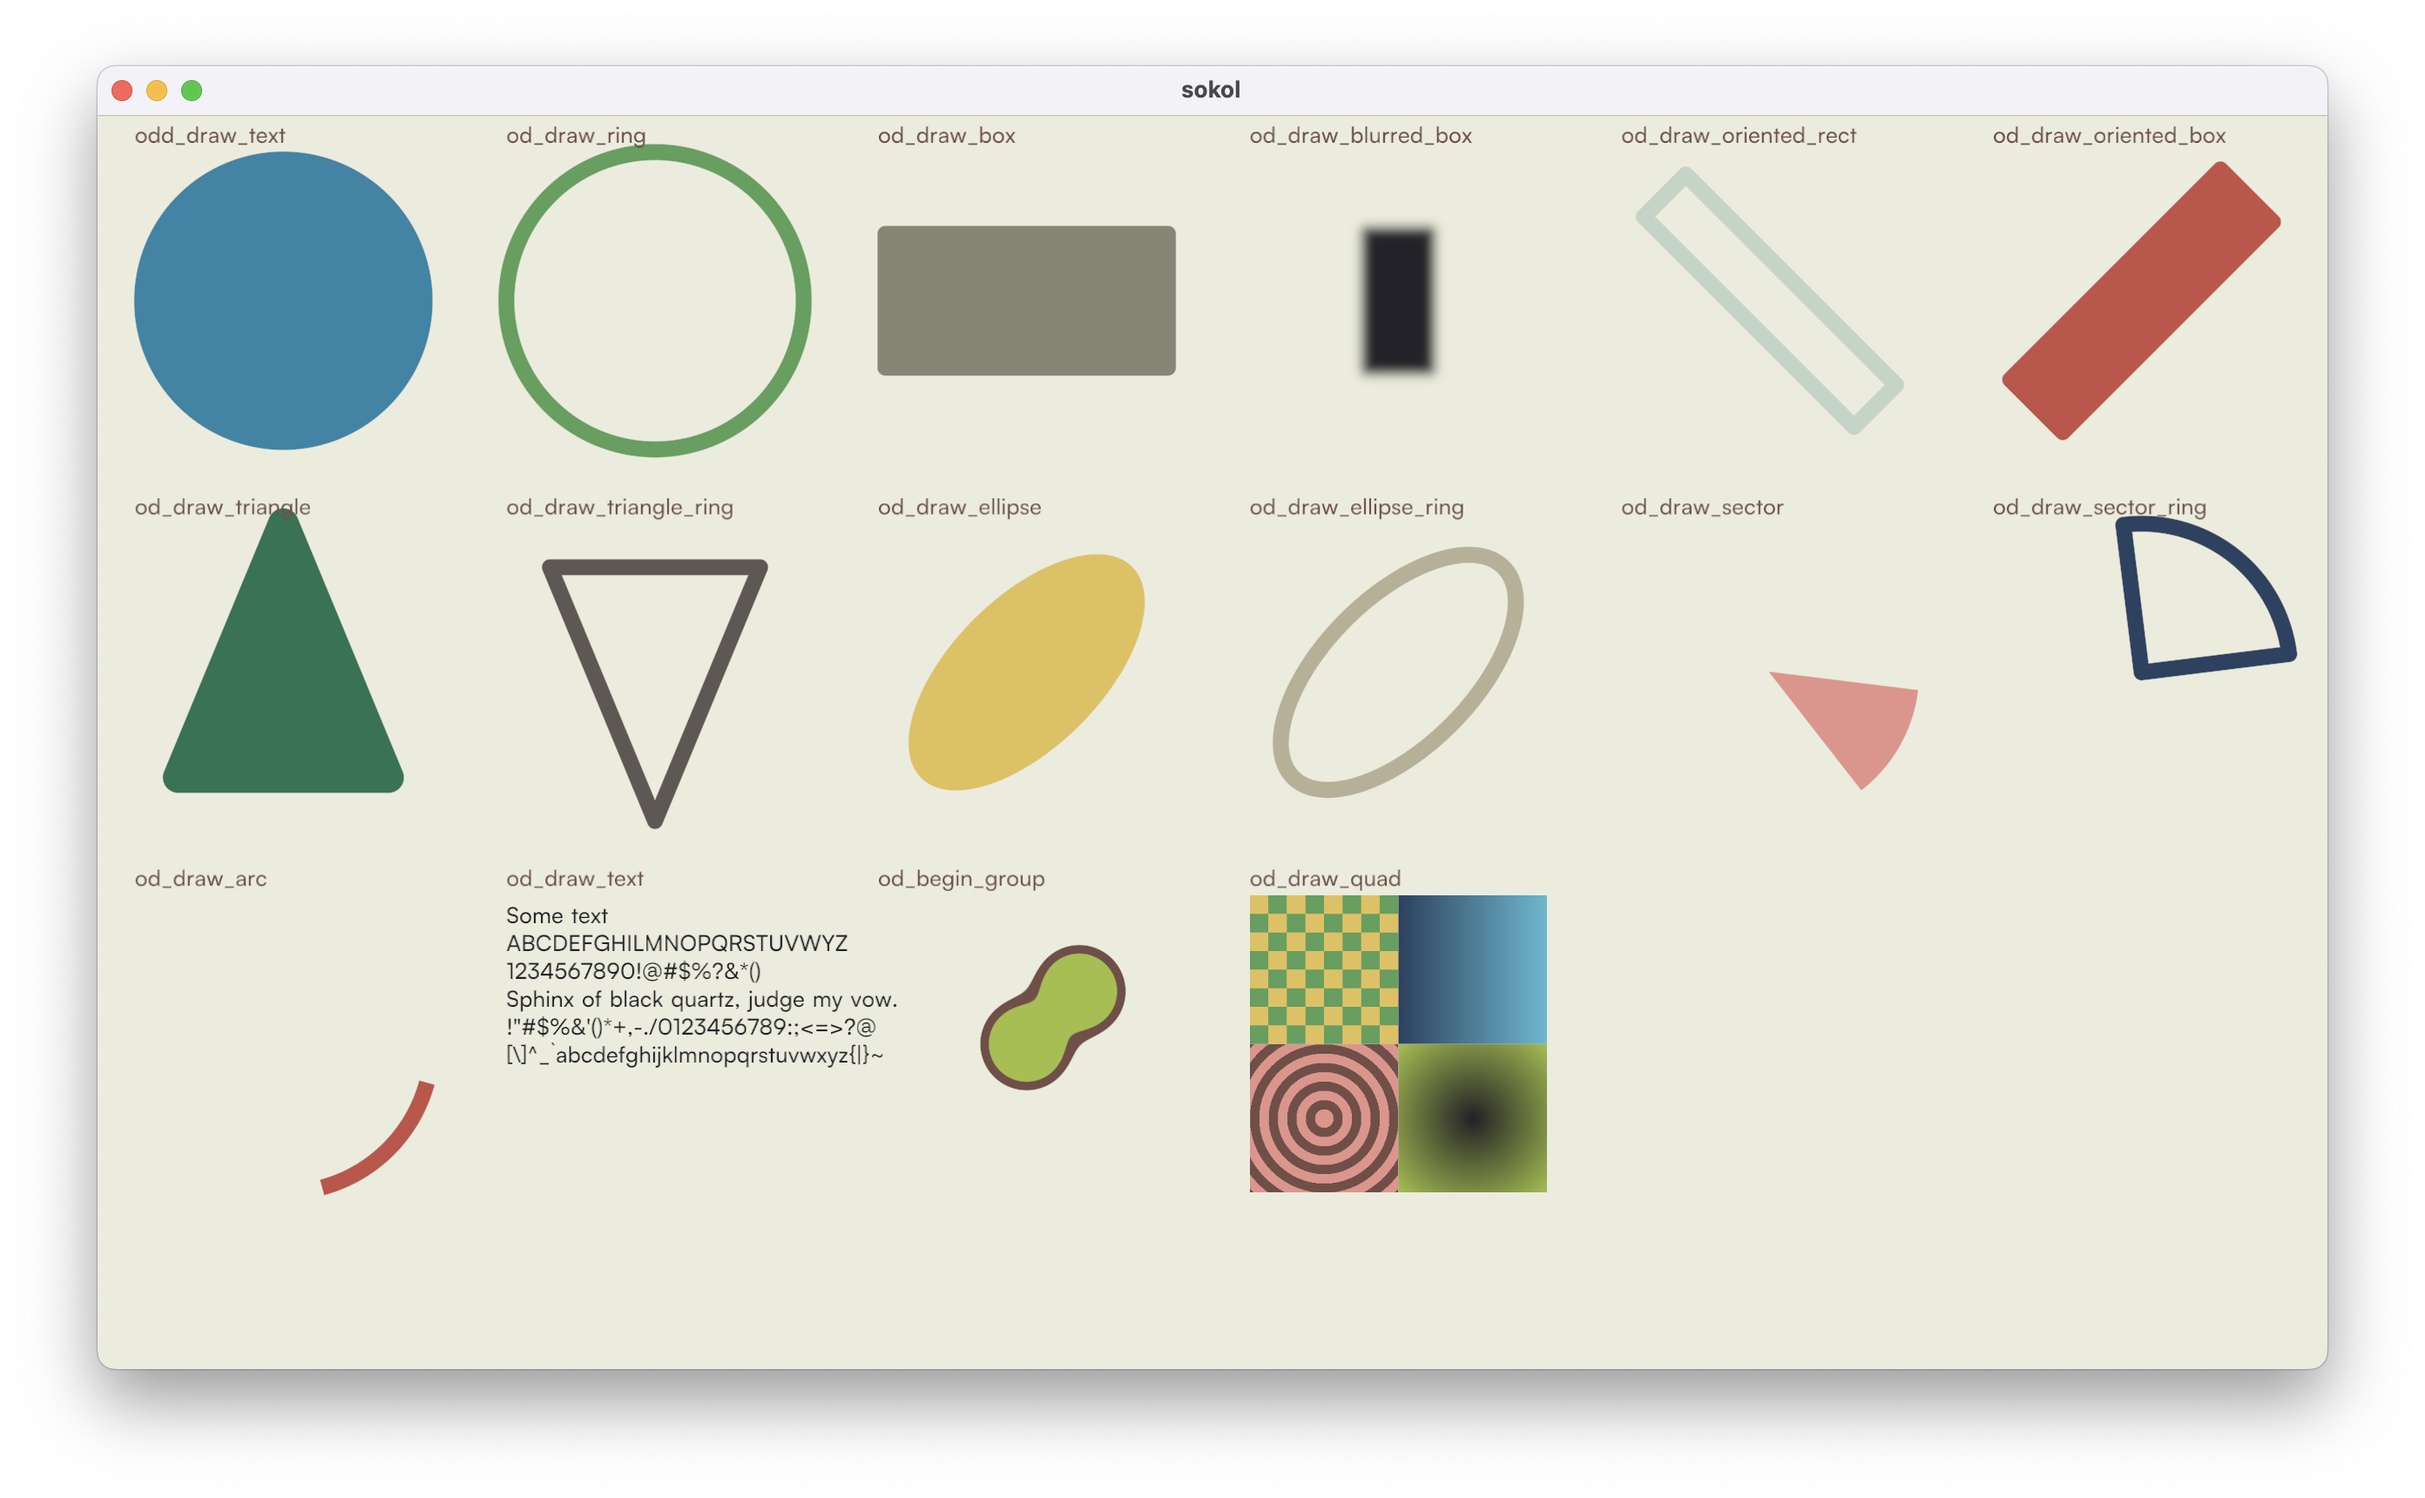
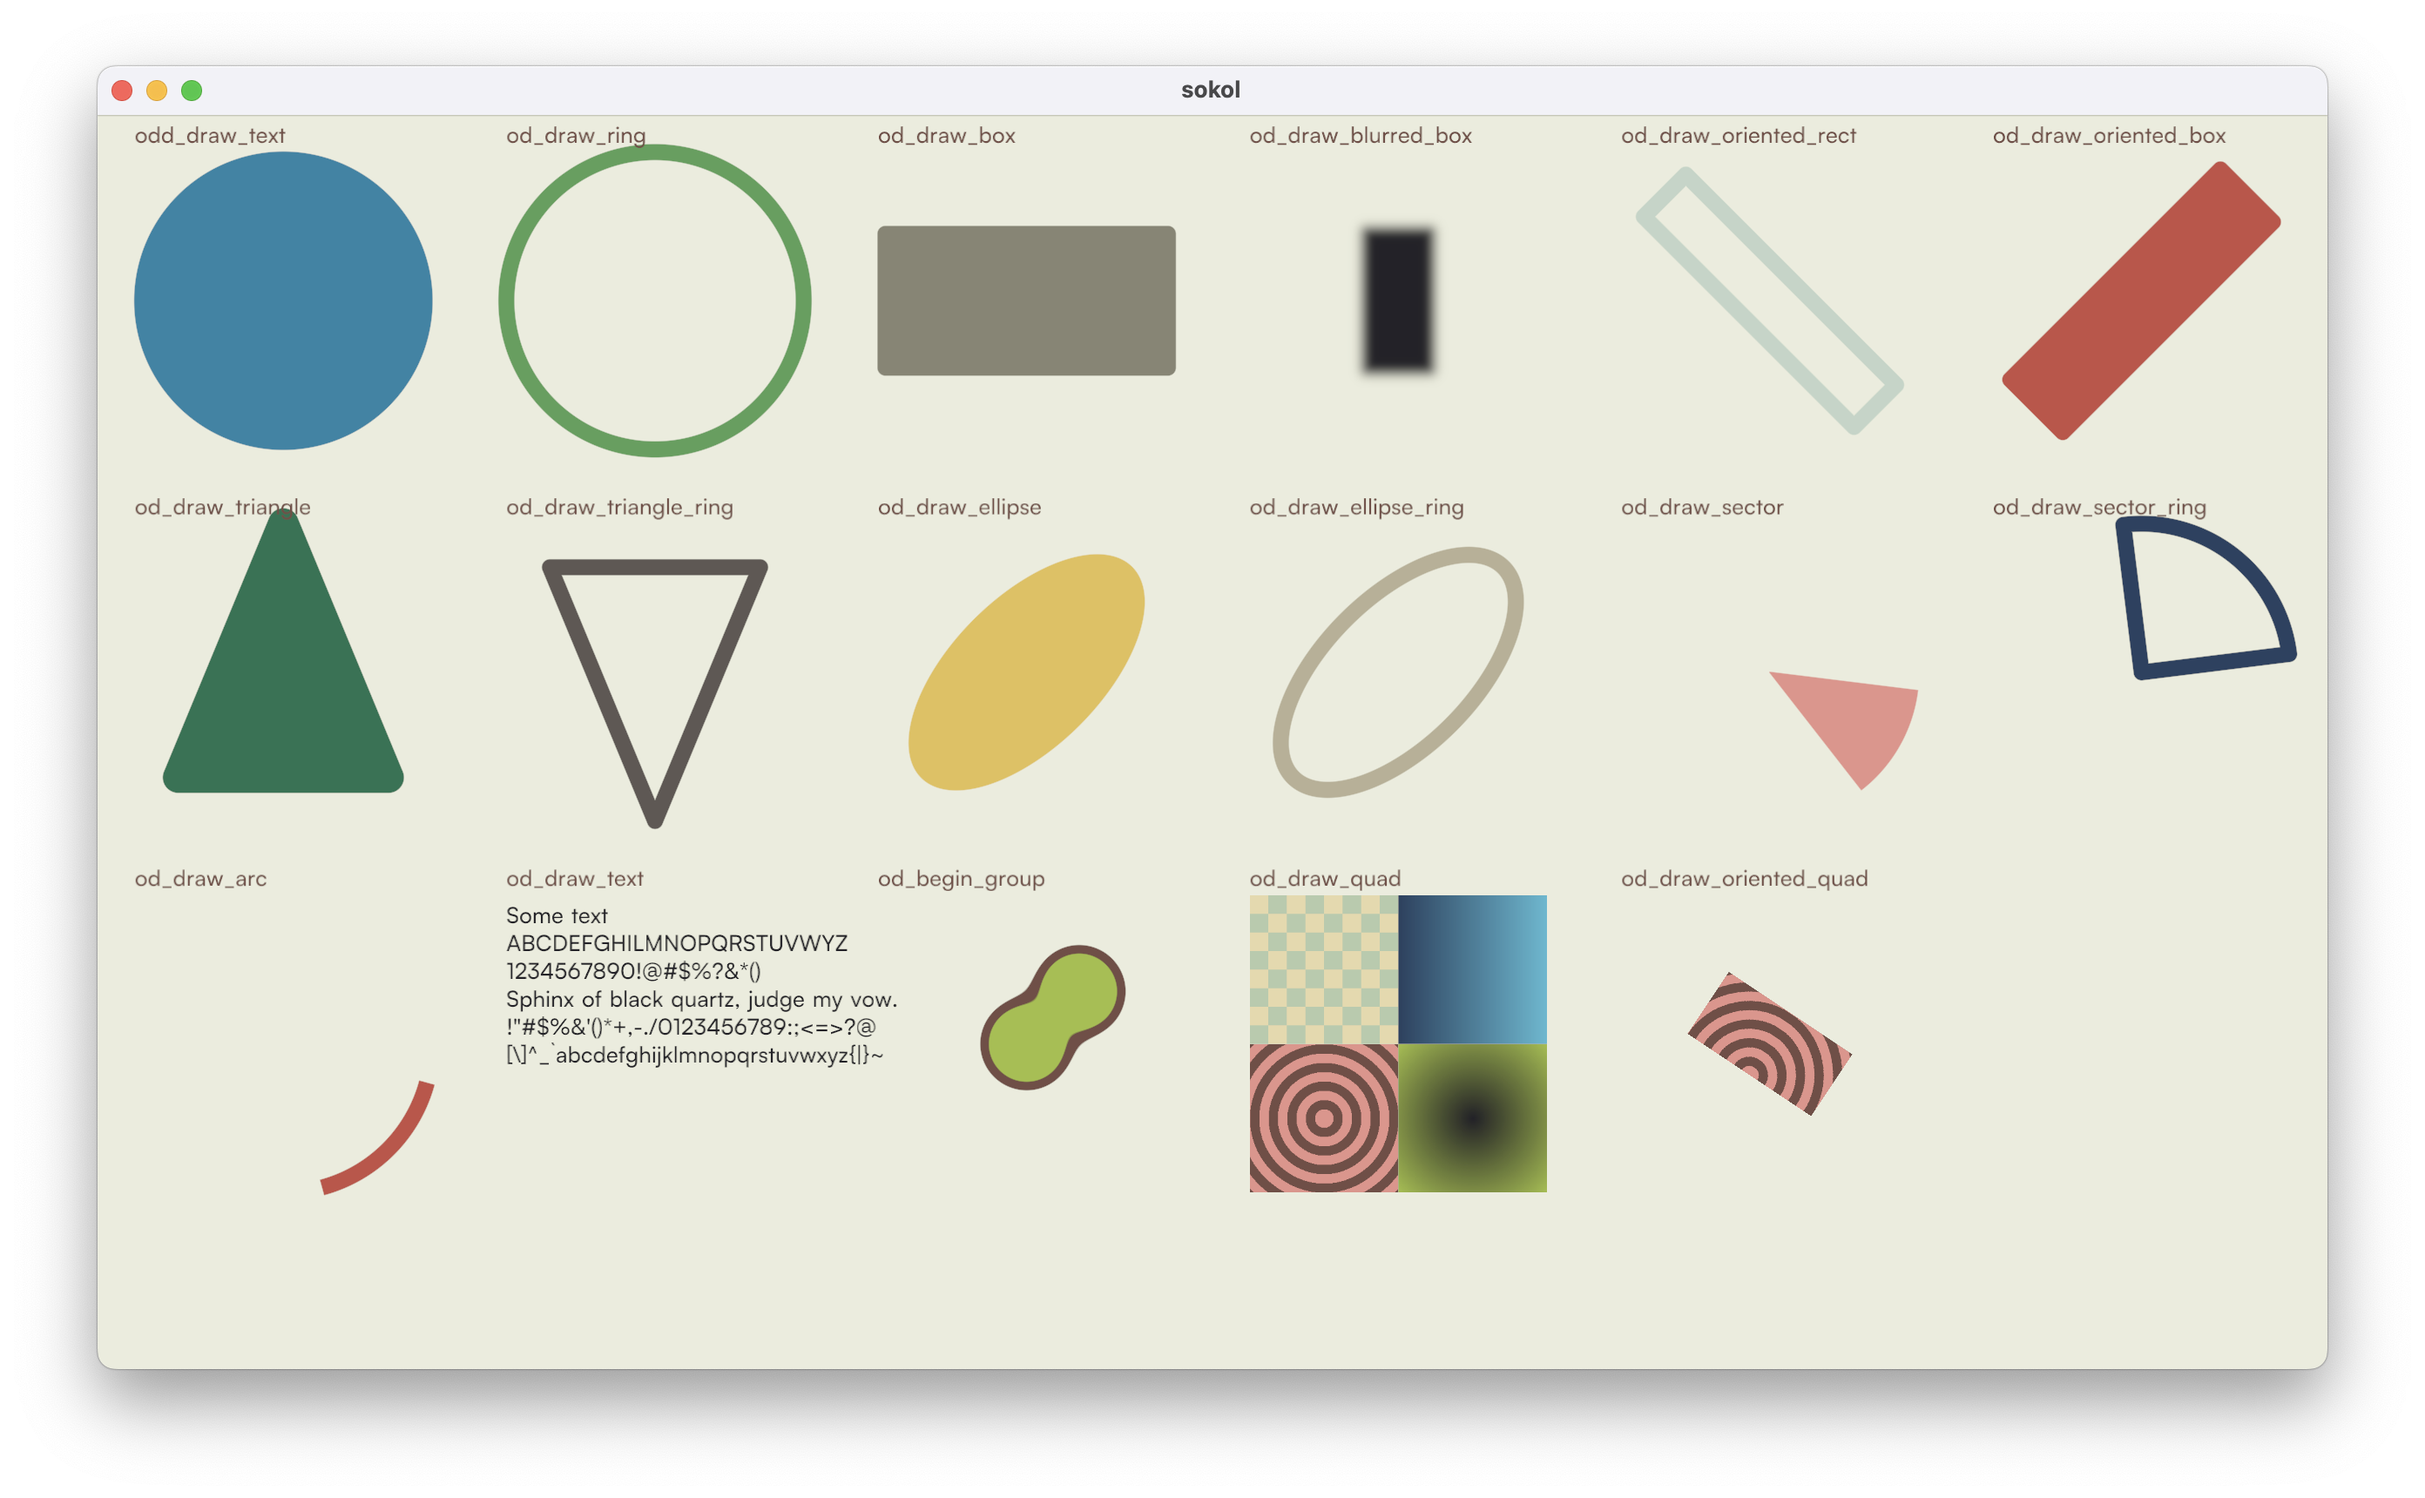
added oriented_quad support + test

Changed region(s): [[0.5, 0.5855, 0.5938, 0.7087], [0.6875, 0.6471, 0.7812, 0.7395]]

diff --git a/lib/rasterization.h b/lib/rasterization.h
@@ -3,7 +3,7 @@
 
 #include <stddef.h>
 
-static const size_t rasterization_shader_size = 22727;
+static const size_t rasterization_shader_size = 23604;
 static const char rasterization_shader[] =
     "#include <metal_stdlib>\n"
     "#define RASTERIZER_SHADER\n"
@@ -64,6 +64,7 @@ static const char rasterization_shader[] =
     "    primitive_arc = 7,\n"
     "    primitive_blurred_box = 8,\n"
     "    primitive_quad = 9,\n"
+    "    primitive_oriented_quad = 10,\n"
     "    \n"
     "    begin_group = 32,\n"
     "    end_group = 33\n"
@@ -298,8 +299,8 @@ static const char rasterization_shader[] =
     "static inline float sd_oriented_ellipse(float2 position, float2 a, float2 b, float width)\n"
     "{\n"
     "    float height = length(b-a);\n"
-    "    float2  axis = (b-a)/height;\n"
-    "    float2  position_translated = (position-(a+b)*.5f);\n"
+    "    float2 axis = (b-a)/height;\n"
+    "    float2 position_translated = (position-(a+b)*.5f);\n"
     "    float2 position_boxspace = float2x2(axis.x,-axis.y, axis.y, axis.x)*position_translated;\n"
     "    return sd_ellipse(position_boxspace, float2(height * .5f, width * .5f));\n"
     "}\n"
@@ -417,6 +418,7 @@ static const char rasterization_shader[] =
     "                       constant draw_cmd_arguments& input [[buffer(0)]],\n"
     "                       device tiles_data& tiles [[buffer(1)]])\n"
     "{\n"
+    "    constexpr sampler s_linear(address::clamp_to_zero, filter::linear );\n"
     "    half4 output = input.culling_debug ? half4(0.f, 0.f, 1.0f, 1.0f) : half4(input.clear_color);\n"
     "    uint32_t node_index = tiles.head[in.tile_index];\n"
     "    if (node_index == INVALID_INDEX)\n"
@@ -516,8 +518,7 @@ static const char rasterization_shader[] =
     "                        if (all(t >= 0.f && t <= 1.f))\n"
     "                        {\n"
     "                            float2 uv = mix(uv_topleft, uv_bottomright, t);\n"
-    "                            constexpr sampler s(address::clamp_to_zero, filter::linear );\n"
-    "                            half texel = 1.h - input.font.sample(s, uv).r;\n"
+    "                            half texel = 1.h - input.font.sample(s_linear, uv).r;\n"
     "                            distance = texel * input.aa_width;\n"
     "                        }\n"
     "                    }\n"
@@ -584,13 +585,34 @@ static const char rasterization_shader[] =
     "                    if (all(t >= 0.f && t <= 1.f))\n"
     "                    {\n"
     "                        float2 uv = mix(uv_topleft, uv_bottomright, t);\n"
-    "                        constexpr sampler s(address::clamp_to_zero, filter::linear );\n"
-    "                        cmd_color = input.atlas.sample(s, uv, extra);\n"
+    "                        cmd_color *= input.atlas.sample(s_linear, uv, extra);\n"
     "                        distance = 0.f;\n"
     "                    }\n"
-    "\n"
     "                    break;\n"
     "                }\n"
+    "\n"
+    "                case primitive_oriented_quad:\n"
+    "                {\n"
+    "                    float2 center = float2(data[0], data[1]);\n"
+    "                    float2 dimensions = float2(data[2], data[3]);\n"
+    "                    float2 axis = float2(data[4], data[5]);\n"
+    "                    float2 uv_topleft = float2(data[6], data[7]);\n"
+    "                    float2 uv_bottomright = float2(data[8], data[9]);\n"
+    "\n"
+    "                    float2 relative = in.pos.xy - center;\n"
+    "                    float2 t = float2(dot(axis, relative), dot(skew(axis), relative));\n"
+    "                    t *= dimensions;\n"
+    "                    t += .5f;\n"
+    "\n"
+    "                    if (all(t >= 0.f && t <= 1.f))\n"
+    "                    {\n"
+    "                        float2 uv = mix(uv_topleft, uv_bottomright, t);\n"
+    "                        cmd_color *= input.atlas.sample(s_linear, uv, extra);\n"
+    "                        distance = 0.f;\n"
+    "                    }\n"
+    "                    break;\n"
+    "                }\n"
+    "\n"
     "                default: break;\n"
     "                }\n"
     "\n"

diff --git a/lib/onedraw.cpp b/lib/onedraw.cpp
@@ -650,7 +650,8 @@ void od_bin_commands(struct onedraw* r)
         args->clear_color = r->rasterizer.clear_color;
     else
     {
-        // clear color for the shader is linear
+        // clear color for the shader is linear the backbuffer is linear as we do
+        // the conversion to srgb at the end of the fragment
         args->clear_color.x = srgb_to_linear(r->rasterizer.clear_color.x);
         args->clear_color.y = srgb_to_linear(r->rasterizer.clear_color.y);
         args->clear_color.z = srgb_to_linear(r->rasterizer.clear_color.z);
@@ -1590,6 +1591,48 @@ void od_draw_quad(struct onedraw* r, float x0, float y0, float x1, float y1, od_
 }
 
 //----------------------------------------------------------------------------------------------------------------------------
+void od_draw_oriented_quad(struct onedraw* r, float cx, float cy, float width, float height, float angle, od_quad_uv uv, uint32_t slice_index, draw_color srgb_color)
+{
+    assert(slice_index < r->rasterizer.atlas->arrayLength());
+
+    if (width < HALF_PIXEL || height < HALF_PIXEL)
+        return;
+
+    vec2 center = {cx, cy};
+    vec2 axis = vec2_angle(angle);
+    vec2 dir = vec2_scale(axis, width*.5f);
+    vec2 p0 = vec2_sub(center, dir);
+    vec2 p1 = vec2_add(center, dir);
+
+    draw_command* cmd = r->commands.buffer.NewElement();
+    draw_color* color = r->commands.colors.NewElement();
+    if (cmd != nullptr && color != nullptr)
+    {
+        cmd->clip_index = LAST_CLIP_INDEX;
+        cmd->data_index = (uint32_t)r->commands.data_buffer.GetNumElements();
+        cmd->fillmode = fill_solid;
+        cmd->type = primitive_oriented_quad;
+        cmd->extra = (uint8_t) slice_index;
+
+        *color = srgb_color;
+
+        float* data = r->commands.data_buffer.NewMultiple(10);
+        quantized_aabb* aabox = r->commands.aabb_buffer.NewElement();
+        if (data != nullptr && aabox != nullptr)
+        {
+            write_float(data, cx, cy, 1.f/width, 1.f/height, axis.x, axis.y, uv.u0, uv.v0, uv.u1, uv.v1);
+            aabb bb = aabb_from_rounded_obb(p0, p1, height, 0.f);
+            write_quantized_aabb(aabox, bb.min.x, bb.min.y, bb.max.x, bb.max.y);
+            merge_quantized_aabb(r->commands.group_aabb, aabox);
+            return;
+        }
+        r->commands.buffer.RemoveLast();
+        r->commands.colors.RemoveLast();
+    }
+    od_log(r, "out of draw commands/draw data buffer, expect graphical artefacts");
+}
+
+//----------------------------------------------------------------------------------------------------------------------------
 float od_text_height(struct onedraw* r)
 {
     return r->font.desc.font_height;
@@ -1622,7 +1665,7 @@ void od_set_clear_color(struct onedraw* r, draw_color srgb_color)
         r->rasterizer.clear_color.x = srgb_to_linear(r8);
         r->rasterizer.clear_color.y = srgb_to_linear(g8);
         r->rasterizer.clear_color.z = srgb_to_linear(b8);
-        r->rasterizer.clear_color.w = a8; // alpha stays linear
+        r->rasterizer.clear_color.w = a8;
     }
     else
     {

diff --git a/tests/test.c b/tests/test.c
@@ -232,13 +232,16 @@ void frame(void)
     od_end_group(renderer, miya_brown);
     od_draw_text(renderer, cx-radius, cy-radius*1.25f, "od_begin_group", miya_brown);
 
-
     slot(15, &cx, &cy, &radius);
-    od_draw_quad(renderer, cx-radius, cy-radius, cx, cy, (od_quad_uv){0.f, 0.f, 1.f, 1.f}, 0, 0xffffffff);
+    od_draw_quad(renderer, cx-radius, cy-radius, cx, cy, (od_quad_uv){0.f, 0.f, 1.f, 1.f}, 0, 0x7fffffff);
     od_draw_quad(renderer, cx, cy-radius, cx+radius, cy, (od_quad_uv){0.f, 0.f, 1.f, 1.f}, 1, 0xffffffff);
     od_draw_quad(renderer, cx-radius, cy, cx, cy+radius, (od_quad_uv){0.f, 0.f, 1.f, 1.f}, 2, 0xffffffff);
     od_draw_quad(renderer, cx, cy, cx+radius, cy+radius, (od_quad_uv){0.f, 0.f, 1.f, 1.f}, 3, 0xffffffff);
     od_draw_text(renderer, cx-radius, cy-radius*1.25f, "od_draw_quad", miya_brown);
+
+    slot(16, &cx, &cy, &radius);
+    od_draw_oriented_quad(renderer, cx, cy, radius, radius*.5f, PI_4 * 0.75f, (od_quad_uv){0.f, 0.f, 1.f, 0.5f}, 2, 0xffffffff);
+    od_draw_text(renderer, cx-radius, cy-radius*1.25f, "od_draw_oriented_quad", miya_brown);
 
     od_end_frame(renderer, (void*)sapp_metal_get_current_drawable());
 }

diff --git a/lib/binning.h b/lib/binning.h
@@ -3,7 +3,7 @@
 
 #include <stddef.h>
 
-static const size_t binning_shader_size = 31323;
+static const size_t binning_shader_size = 31437;
 static const char binning_shader[] =
     "#include <metal_stdlib>\n"
     "#ifndef __COMMON_H__\n"
@@ -63,6 +63,7 @@ static const char binning_shader[] =
     "    primitive_arc = 7,\n"
     "    primitive_blurred_box = 8,\n"
     "    primitive_quad = 9,\n"
+    "    primitive_oriented_quad = 10,\n"
     "    \n"
     "    begin_group = 32,\n"
     "    end_group = 33\n"
@@ -630,6 +631,7 @@ static const char binning_shader[] =
     "        case primitive_aabox :\n"
     "        case primitive_blurred_box :\n"
     "        case primitive_quad:\n"
+    "        case primitive_oriented_quad:   // TODO : do obb test for oriented quad\n"
     "        case primitive_char : intersection = true; break;\n"
     "        default : intersection = false; break;\n"
     "    }\n"

diff --git a/lib/onedraw.h b/lib/onedraw.h
@@ -196,7 +196,10 @@ void od_draw_text(struct onedraw* r, float x, float y, const char* text, draw_co
 //      [slide_index]           index of the texture in the array
 //      [srgb_color]            color that will multiply by the texture's fragment
 void od_draw_quad(struct onedraw* r, float x0, float y0, float x1, float y1, od_quad_uv uv, uint32_t slice_index, draw_color srgb_color);
-void od_draw_oriented_quad(struct onedraw* r, float x0, float y0, float x1, float y1, od_quad_uv uv, float angle, uint32_t slice_index, draw_color srgb_color);
+
+//-----------------------------------------------------------------------------------------------------------------------------
+// Draws a oriented textured quad
+void od_draw_oriented_quad(struct onedraw* r, float cx, float cy, float width, float height, float angle, od_quad_uv uv, uint32_t slice_index, draw_color srgb_color);
 
 #ifdef __cplusplus
 }

diff --git a/lib/common.h b/lib/common.h
@@ -55,6 +55,7 @@ enum command_type
     primitive_arc = 7,
     primitive_blurred_box = 8,
     primitive_quad = 9,
+    primitive_oriented_quad = 10,
     
     begin_group = 32,
     end_group = 33

diff --git a/src/shaders/common.h b/src/shaders/common.h
@@ -55,6 +55,7 @@ enum command_type
     primitive_arc = 7,
     primitive_blurred_box = 8,
     primitive_quad = 9,
+    primitive_oriented_quad = 10,
     
     begin_group = 32,
     end_group = 33
